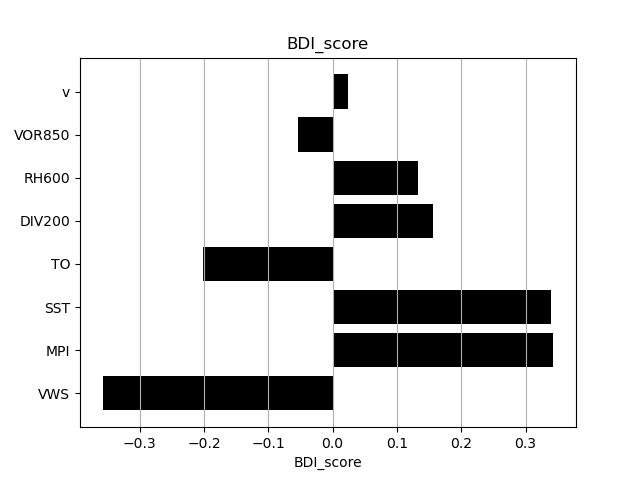
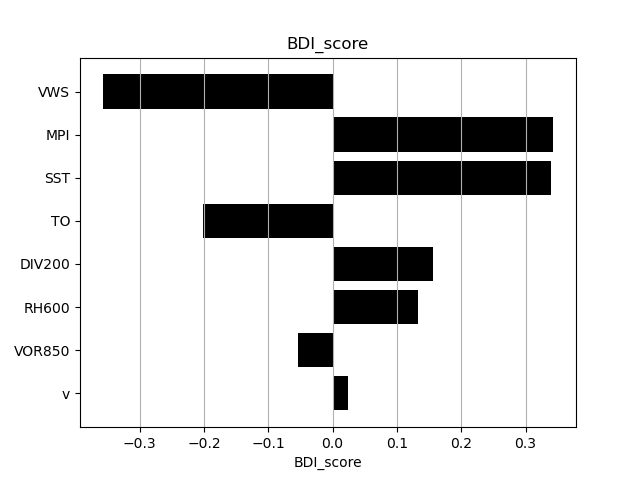
BDI redraw

diff --git a/factor_analysis.py b/factor_analysis.py
@@ -58,7 +58,7 @@ def draw_bdi(ri, nonri):
     ax.set_title("BDI_score")
     ax.set_xlabel("BDI_score")
     bdi_label = ['VWS', 'MPI', 'SST', 'TO', 'DIV200', 'RH600', 'VOR850', 'v']
-    ax.set_yticklabels(bdi_label)
+    ax.set_yticklabels(bdi_label[::-1])
     bdi_score = [BDI(ri[:, i], nonri[:, i]) for i in range(4, 13)]
     bdi_score.pop(1)
     bdi_new = []
@@ -70,7 +70,7 @@ def draw_bdi(ri, nonri):
     bdi_new.append(bdi_score[2])
     bdi_new.append(bdi_score[4])
     bdi_new.append(bdi_score[0])
-    plt.barh(bdi_label, bdi_new, color='black')
+    plt.barh(bdi_label[::-1], bdi_new[::-1], color='black')
     plt.savefig("BDI_score.png")
     plt.show()
 
